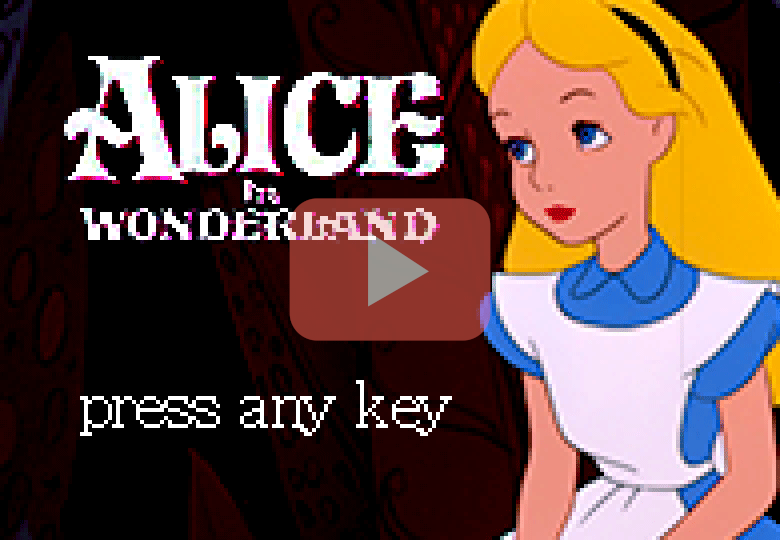
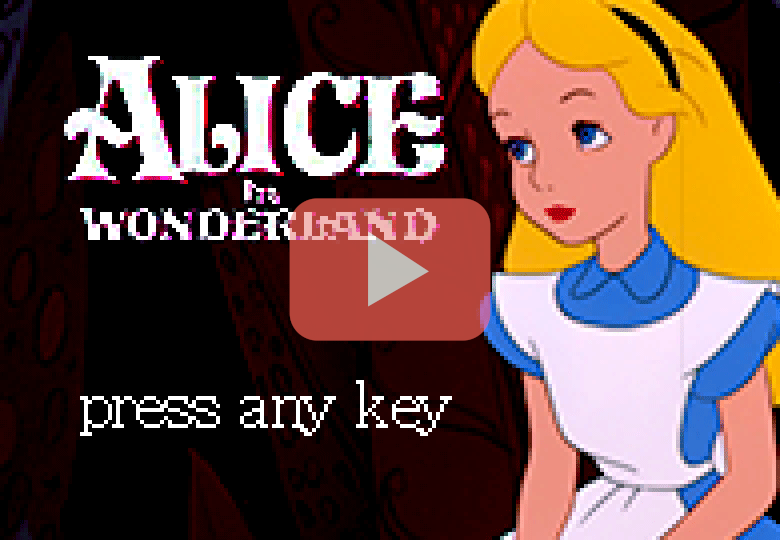
b1.2

Changed region(s): [[0.3692, 0.3556, 0.6462, 0.6519]]

diff --git a/AliceInWonderland.html b/AliceInWonderland.html
@@ -82,7 +82,7 @@
                 
                 <h3>플레이 영상</h3>
                 
-                <p><a href="https://www.youtube.com/embed/jZcKa6BGwCI" data-lity><img class="figure" src="images/AIW/2018-11-19 18.29.51_play.png"></a></p>
+                <p><a href="https://www.youtube.com/embed/jZcKa6BGwCI" data-lity><img class="figure" src="images/AIW/2018-11-19 18.29.51_play.png" onmouseover="this.src='images/AIW/2018-11-19 18.29.51_stop.png'" onmouseout="this.src='images/AIW/2018-11-19 18.29.51_play.png'"></a></p>
                 <h3>게임 소개</h3>
 
                 <p>
@@ -171,7 +171,7 @@
             <p><a href="images\AIW\2018-11-19 18.33.19.png" data-lity><img class="figure" alt="" src="images\AIW\2018-11-19 18.33.19.png" ></a></p>
             <p><a href="images\AIW\2018-11-19 18.34.13.png" data-lity><img class="figure" alt="" src="images\AIW\2018-11-19 18.34.13.png" ></a></p>
             <p><a href="images\AIW\2018-11-19 18.33.36.png" data-lity><img class="figure" alt="" src="images\AIW\2018-11-19 18.33.36.png" ></a></p>
-            
+
             </div>
 
             <div class="col">

diff --git a/VacanceTogether.html b/VacanceTogether.html
@@ -79,8 +79,8 @@
             </h1>
             
             <h3>플레이 영상</h3>            
-            <p><a href="https://www.youtube.com/embed/bOEyNx-nPhM" data-lity><img class="figure" src="images/VT/VT (1)_play.png"></a></p>
-            <p><a href="https://www.youtube.com/embed/ew-4tnbfw6w" data-lity><img class="figure" src="images/VT/VT (2)_play.png"></a></p>
+            <p><a href="https://www.youtube.com/embed/bOEyNx-nPhM" data-lity><img class="figure" src="images/VT/VT (1)_play.png" onmouseover="this.src='images/VT/VT (1)_stop.png'" onmouseout="this.src='images/VT/VT (1)_play.png'"></a></p>
+            <p><a href="https://www.youtube.com/embed/ew-4tnbfw6w" data-lity><img class="figure" src="images/VT/VT (2)_play.png" onmouseover="this.src='images/VT/VT (2)_stop.png'" onmouseout="this.src='images/VT/VT (2)_play.png'"></a></p>
             <h3>게임 소개</h3>
             <p>
                 플랫폼 : Android, iOS<br>

diff --git a/SaintMichaelsJournal.html b/SaintMichaelsJournal.html
@@ -80,7 +80,7 @@
                 <h1>Saint Michael's Journal (VR) 2017</h1>
                 <h2>성 미카일의 일기</h2>
                 <h3>플레이 영상</h3>
-                <p><a href="https://www.youtube.com/embed/qY1QTp8LD-Q" data-lity><img class="figure" src="images/SMJ/thumb_play.png"></a></p>
+                <p><a href="https://www.youtube.com/embed/qY1QTp8LD-Q" data-lity><img class="figure" src="images/SMJ/thumb_play.png" onmouseover="this.src='images/SMJ/thumb_stop.png'" onmouseout="this.src='images/SMJ/thumb_play.png'"></a></p>
                 
                 <h3>게임 소개</h3>
                 <p>

diff --git a/LostInWonderland.html b/LostInWonderland.html
@@ -81,7 +81,7 @@
             <h1>Lost In Wonderland</h1>
             
             <h3>플레이 영상</h3>
-            <p><a href="https://www.youtube.com/embed/Rxd984BZZw8" data-lity><img class="figure" src="images/LIW/AIW10_YT.png"></a></p>
+            <p><a href="https://www.youtube.com/embed/Rxd984BZZw8" data-lity><img class="figure" src="images/LIW/AIW10_YT.png" onmouseover="this.src='images/LIW/AIW10_YT_stop.png'" onmouseout="this.src='images/LIW/AIW10_YT.png'"></a></p>
             <h3>게임 소개</h3>
             <p>
                 개발연도 : 2018<br>
